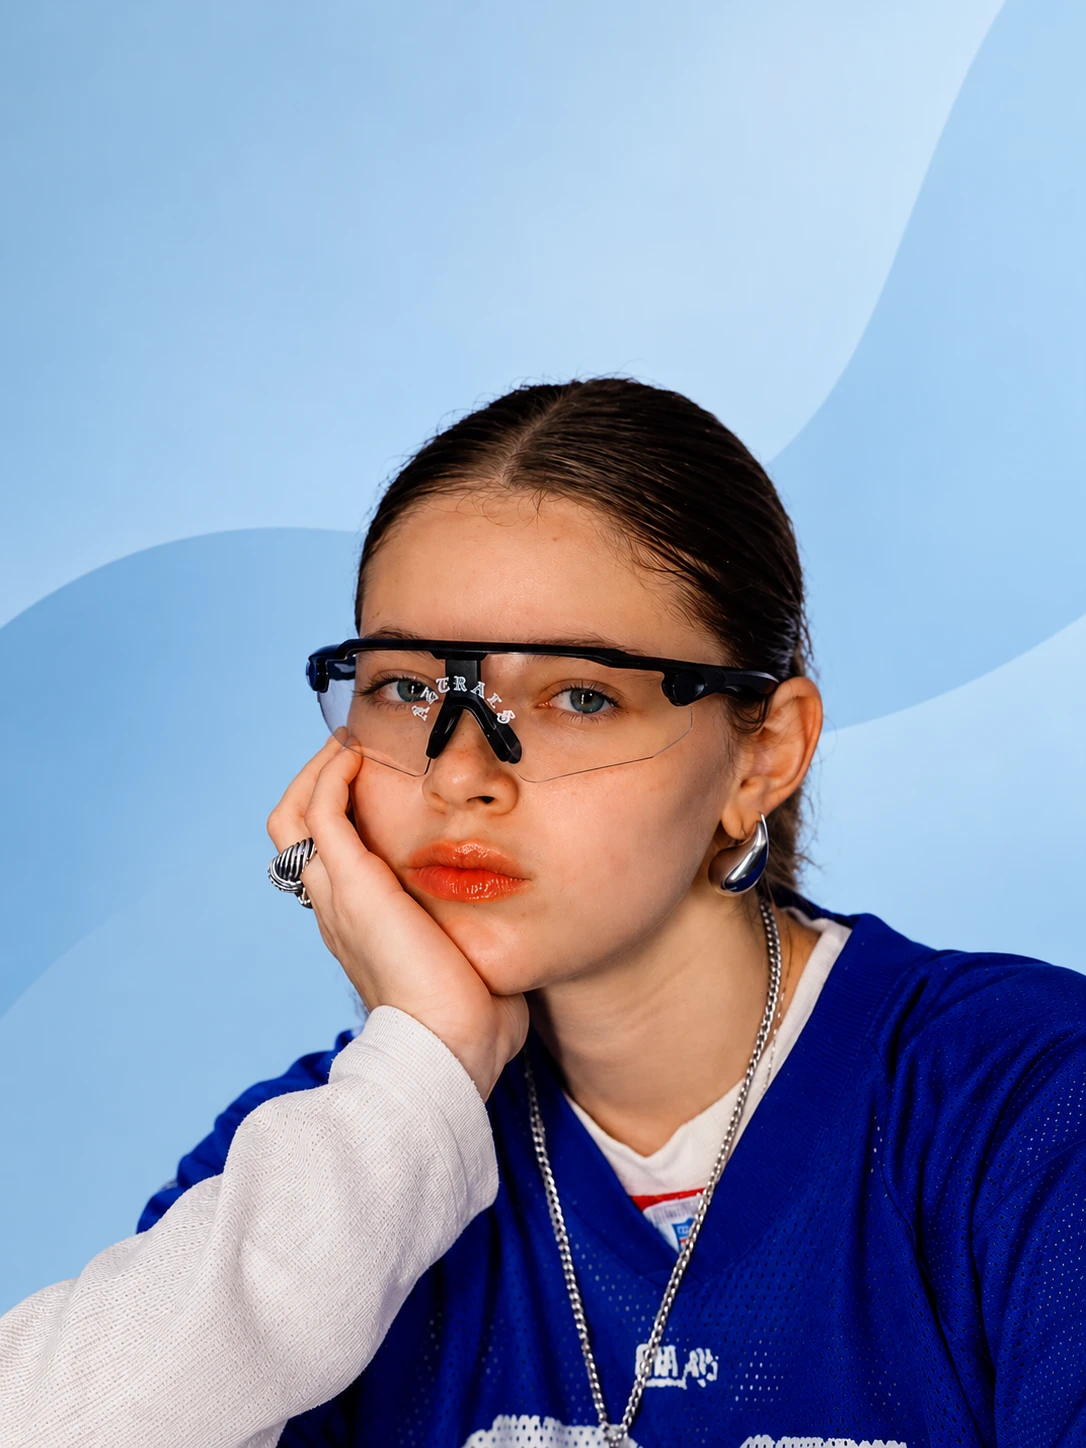
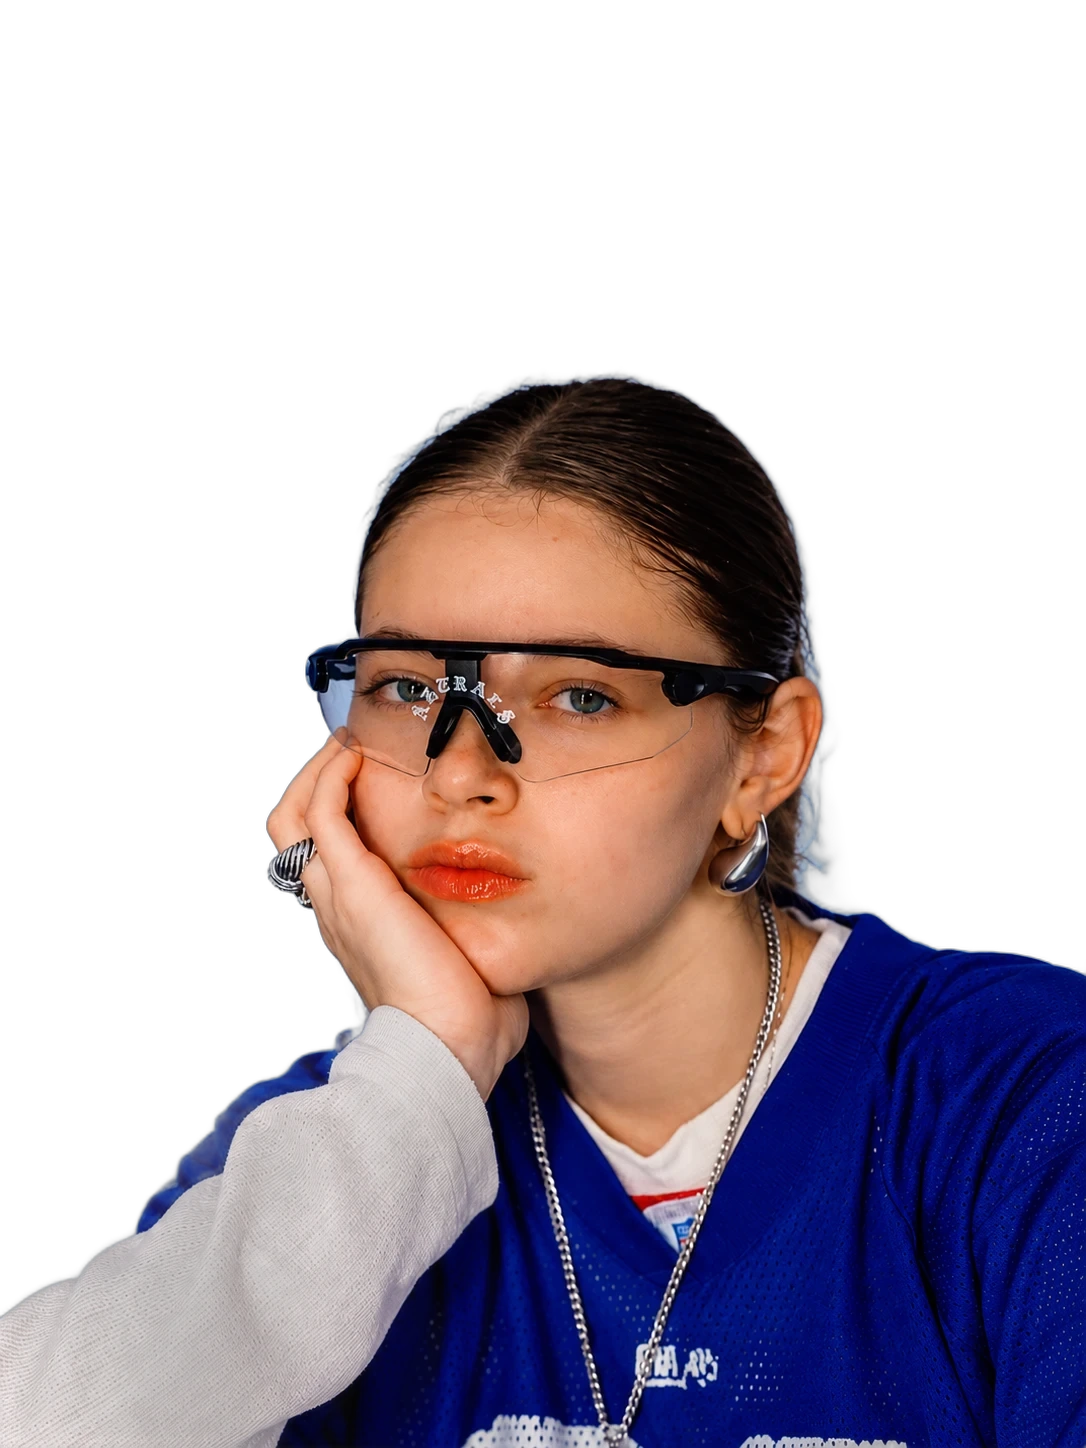
Hero: the model stands in the middle, in front of the wordmark
Following the reference the owner picked: the campaign photo is now a cut-out
(background removed) standing in the centre of the first screen, with the
AZTRALS wordmark running behind her, the headline on the left and the buy column
on the right. Her cropped arm, shoulders and waist dissolve into the page
through an alpha mask, so no hard crop line shows. On scroll she sinks slightly
slower than the page. On phones the buy block comes first and she follows.

Claude-Session: https://claude.ai/code/session_01WBaQmTisByD1k2zvPE8nML

diff --git a/src/scripts/motion.ts b/src/scripts/motion.ts
@@ -43,22 +43,13 @@ if (root.classList.contains('motion')) {
         });
         scroll.to(word, { yPercent: 34, ease: 'none' }, 0);
 
-        if (figure.hasAttribute('data-photo')) {
-          // The photo panel stays put (moving it would open a gap at the screen edge): the picture
-          // settles inside it on load, and zooms in slowly as the hero scrolls away.
-          const shot = figure.querySelector<HTMLElement>('.shot');
-          const img = figure.querySelector<HTMLElement>('img');
-          gsap.fromTo(figure, { autoAlpha: 0 }, { autoAlpha: 1, duration: 0.6, ease: 'power1.out' });
-          if (img) gsap.fromTo(img, { scale: 1.12 }, { scale: 1, duration: 1.8, ease: 'expo.out' });
-          if (shot) scroll.fromTo(shot, { scale: 1 }, { scale: 1.1, ease: 'none' }, 0);
-        } else {
-          gsap.fromTo(
-            figure,
-            { y: 60, autoAlpha: 0, scale: 1.04 },
-            { y: 0, autoAlpha: 1, scale: 1, duration: 1.5, ease: 'expo.out', delay: 0.2 },
-          );
-          scroll.to(figure, { y: wide ? -60 : -24, scale: 0.96, ease: 'none' }, 0);
-        }
+        gsap.fromTo(
+          figure,
+          { y: 60, autoAlpha: 0, scale: 1.04 },
+          { y: 0, autoAlpha: 1, scale: 1, duration: 1.5, ease: 'expo.out', delay: 0.2 },
+        );
+        // The figure sinks a little slower than the page, so its cropped base never lifts into view.
+        scroll.to(figure, { y: wide ? 90 : 30, ease: 'none' }, 0);
       }
 
       // ---------- spotlight: pinned; the sun rises behind the model as it turns ----------

diff --git a/src/assets/photos/README.md b/src/assets/photos/README.md
@@ -1,10 +1,10 @@
 Drop the site photos here with these exact names (any of .jpg, .png, .webp, .avif).
 The page picks each one up on the next build and the drawing in that slot disappears.
 
-- hero        In place (hero.webp). The first-screen photo, shown as a tall panel on the right
-              on desktop and full width on phones. Any 3:4 vertical photo works, with or
-              without a background; keep the face in the upper half. Replace it by
-              overwriting hero.webp (or delete it and add hero.jpg / hero.png).
+- hero        In place (hero.webp): a cut-out (transparent background) of the campaign photo.
+              It stands in the middle of the first screen, in front of the AZTRALS wordmark;
+              its side and bottom edges fade into the page. Replace it with another 3:4
+              cut-out (transparent PNG or WebP) by overwriting hero.webp.
 - playa       Lifestyle portrait at the beach. Vertical (3:4).
 - surf        Lifestyle portrait surfing / by the water. Vertical (3:4).
 - ciudad      Lifestyle portrait in the city (Old San Juan, Condado). Vertical (3:4).
